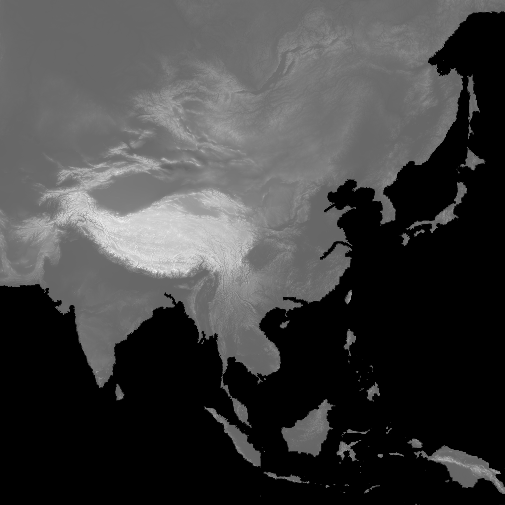
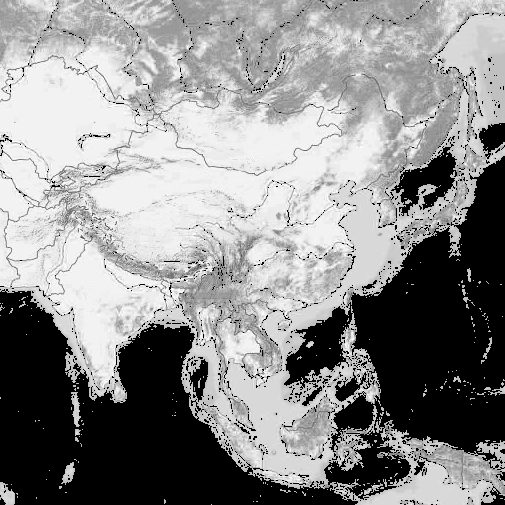
重新生成地形：用PNG的B>G判断海洋，修正坐标匹配问题，更新城市海拔

diff --git a/terrain.js b/terrain.js
@@ -36,11 +36,11 @@ class TerrainExplorer {
         this.terrainSize = 200;
         this.terrainHeight = 55;
         this.cities = {
-            tongxiang: { lng: 120.56, lat: 30.63, name: '桐乡', pixel: [365, 224], elementId: 'tongxiang', idx: 0, elevation: 0 },
-            chengdu:   { lng: 104.06, lat: 30.67, name: '成都', pixel: [246, 224], elementId: 'chengdu', idx: 1, elevation: 35 },
-            hefei:     { lng: 117.23, lat: 31.82, name: '合肥', pixel: [341, 213], elementId: 'hefei', idx: 2, elevation: 22 },
-            hongkong:  { lng: 114.17, lat: 22.32, name: '香港', pixel: [319, 300], elementId: 'hongkong', idx: 3, elevation: 24 },
-            beijing:   { lng: 116.40, lat: 39.90, name: '北京', pixel: [335, 139], elementId: 'beijing', idx: 4, elevation: 26 }
+            tongxiang: { lng: 120.56, lat: 30.63, name: '桐乡', pixel: [365, 224], elementId: 'tongxiang', idx: 0, elevation: 47 },
+            chengdu:   { lng: 104.06, lat: 30.67, name: '成都', pixel: [246, 224], elementId: 'chengdu', idx: 1, elevation: 51 },
+            hefei:     { lng: 117.23, lat: 31.82, name: '合肥', pixel: [341, 213], elementId: 'hefei', idx: 2, elevation: 51 },
+            hongkong:  { lng: 114.17, lat: 22.32, name: '香港', pixel: [319, 300], elementId: 'hongkong', idx: 3, elevation: 44 },
+            beijing:   { lng: 116.40, lat: 39.90, name: '北京', pixel: [335, 139], elementId: 'beijing', idx: 4, elevation: 50 }
         };
         
         // ===== 状态 =====
